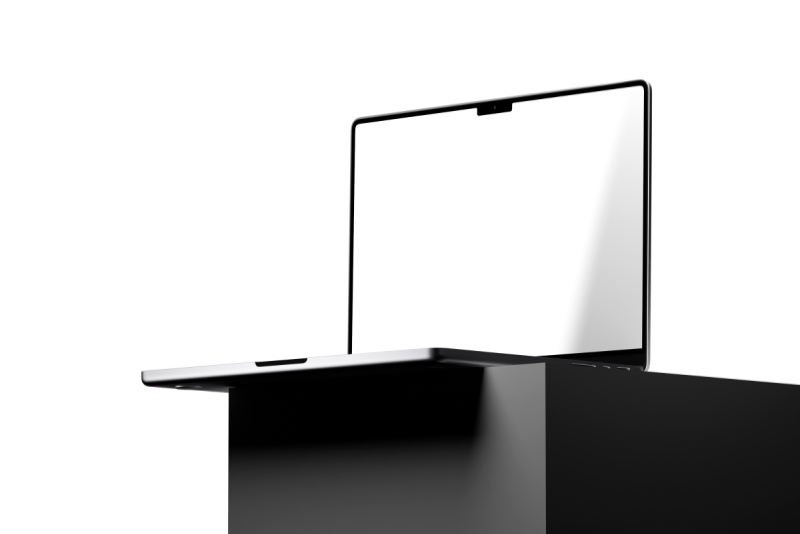
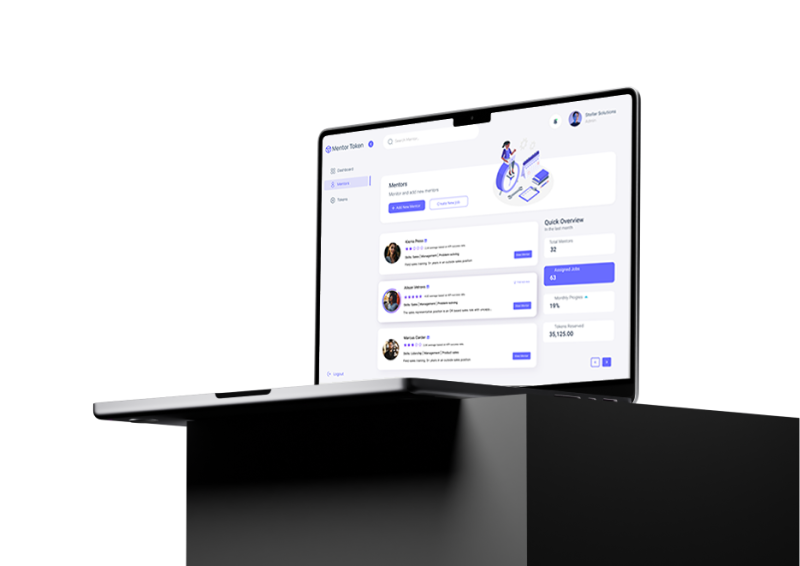
added login

Changed region(s): [[0.0938, 0.1498, 1.0, 1.0], [0.5938, 0.2397, 0.6875, 0.3596]]

diff --git a/src/App.jsx b/src/App.jsx
@@ -1,17 +1,20 @@
 import { About, Contact, Home } from "./pages";
-import { Navbar, Footer } from "./components";
+import { Landing } from "./components";
+import { Auth_layout, Login } from "./auth";
+
 import { Routes, Route } from "react-router-dom";
 
 function App() {
   return (
     <>
-      <Navbar />
       <Routes>
-        <Route path="/" element={<Home />} />
-        <Route path="/about" element={<About />} />
-        <Route path="/contact" element={<Contact />} />
+        <Route element={<Landing />}>
+          <Route path="/" element={<Home />} />
+          <Route path="/about" element={<About />} />
+          <Route path="/contact" element={<Contact />} />
+        </Route>
+        <Route path="/login" element={<Auth_layout />} />
       </Routes>
-      <Footer />
     </>
   );
 }

diff --git a/src/components/navbar/navbar.module.css b/src/components/navbar/navbar.module.css
@@ -60,23 +60,9 @@
   border-radius: var(--b-radius-btn);
 }
 
-.navbar_nav [datatype="modifier"] {
-  background-color: var(--clr);
-}
-
-.navbar_nav li:hover {
-  background-color: var(--clr-purple-hover-400);
-  color: var(--clr-light);
-  transition: var(--transition--200);
-}
-
-.navbar_nav li:hover a {
-  color: var(--clr-light);
-}
-
 /* UTILITY */
 .menu_open {
-  height: 18vh;
+  height: 18.2vh;
   transition: var(--transition--200);
 }
 
@@ -84,13 +70,12 @@
   display: none;
 }
 
-.text_purple {
-  color: var(--clr-purple-primary-400);
-}
-
 .active {
-  border-bottom: var(--border-b);
+  color: var(--clr-purple-primary-400);
   transition: var(--transition--200);
+}
+.red {
+  background-color: red;
 }
 
 /* MEDIA */

diff --git a/src/auth/auth_layout/Auth_layout.module.css b/src/auth/auth_layout/Auth_layout.module.css
@@ -1,0 +1,36 @@
+.layout {
+  display: grid;
+  grid-template-columns: 40% 1fr;
+}
+
+.auth {
+  position: relative;
+  height: 100vh;
+  background-image: url("../../../public/auth_background.png");
+}
+
+.auth::before {
+  content: "";
+  position: absolute;
+  top: 0;
+  left: 0;
+  width: 100%;
+  height: 100%;
+  background-color: var(--clr-purple-primary-400);
+  opacity: 0.8;
+  z-index: 2;
+  pointer-events: none;
+}
+
+.auth h1 {
+  font-size: 60px;
+  position: relative; /* Ensure p is positioned relative to .auth */
+  color: #fff;
+  z-index: 3; /* Ensure the text is above the overlay */
+}
+
+.login {
+  display: flex;
+  justify-content: center;
+  padding-inline: 4rem;
+}

diff --git a/src/auth/login/Login.jsx b/src/auth/login/Login.jsx
@@ -1,0 +1,23 @@
+import styles from "./login.module.css";
+
+const Login = () => {
+  return (
+    <div className={styles.login}>
+      <img src="../../../public/Vector.png" alt="" />
+      <h2>Log in to mentor token</h2>
+      <p>Enter your email and pass to login.</p>
+      <div className={styles.form}>
+        <label htmlFor="email">Email</label>
+        <input type="email" name="email" id="email" />
+        <input type="password" name="password" />
+        <input type="submit" value="Log in" />
+      </div>
+      <div>
+        <p>
+          Don’t have account? <a href="#">Register.</a>
+        </p>
+      </div>
+    </div>
+  );
+};
+export default Login;

diff --git a/src/pages/home/main/section1/section1.module.css b/src/pages/home/main/section1/section1.module.css
@@ -28,7 +28,7 @@
   padding-top: 25px;
 }
 .section1 p {
-  font-size: 15px;
+  font-size: 14.5px;
   padding-block: 20px;
 }
 
@@ -64,6 +64,13 @@ a[data-type="gap"] {
   flex-wrap: wrap;
 }
 
+@media (width < 390px) {
+  .btn_align {
+    flex-direction: column;
+    align-items: start;
+  }
+}
+
 @media (width >= 768px) {
   .section1 h1 {
     font-size: 32px;
@@ -92,12 +99,12 @@ a[data-type="gap"] {
   .section1 p {
     font-size: 20px;
     padding-bottom: 70px;
-    width: 50%;
+    width: 60%;
   }
 
   .section1 h1 {
     font-size: 45px;
     padding-top: 60px;
-    width: 50%;
+    width: 60%;
   }
 }

diff --git a/src/auth/login/login.module.css b/src/auth/login/login.module.css
@@ -1,0 +1,25 @@
+.login {
+  display: inline-flex;
+  justify-content: center;
+  align-content: center;
+  flex-direction: column;
+  text-align: center;
+  gap: 2rem;
+}
+
+.login img {
+  max-width: 1.3rem;
+}
+
+.login input {
+  display: inline-block;
+  /* width: 50%; */
+}
+
+.form {
+  display: flex;
+  flex-direction: column;
+  justify-content: center;
+  gap: 1rem;
+  width: 32rem;
+}

diff --git a/src/components/navbar/Navbar.jsx b/src/components/navbar/Navbar.jsx
@@ -35,9 +35,7 @@ const Navbar = () => {
           <NavLink
             to="/"
             className={({ isActive }) => {
-              return isActive
-                ? `${styles.active} ${styles.text_purple}`
-                : `${styles.text_purple}`;
+              return isActive ? `${styles.active}` : ``;
             }}
           >
             Home

diff --git a/src/auth/auth_layout/Auth_layout.jsx b/src/auth/auth_layout/Auth_layout.jsx
@@ -1,0 +1,14 @@
+import Login from "../login/Login";
+import styles from "./Auth_layout.module.css";
+
+const Auth_layout = () => {
+  return (
+    <div className={styles.layout}>
+      <div className={styles.auth}>
+        <h1>Grow your startup!</h1>
+      </div>
+      <Login className={styles.login} />
+    </div>
+  );
+};
+export default Auth_layout;

diff --git a/src/components/landing/Landing.jsx b/src/components/landing/Landing.jsx
@@ -1,0 +1,13 @@
+import { Navbar, Footer } from "../../components";
+import { Outlet } from "react-router-dom";
+
+const Landing = ({ children }) => {
+  return (
+    <div>
+      <Navbar />
+      {children || <Outlet />}
+      <Footer />
+    </div>
+  );
+};
+export default Landing;

diff --git a/src/pages/index.js b/src/pages/index.js
@@ -1,5 +1,7 @@
+import Landing from "../components/landing/Landing";
 import About from "./about/About";
 import Contact from "./contact/Contact";
 import Home from "./home/Home";
+Landing;
 
-export { About, Contact, Home };
+export { About, Contact, Home, Landing };

diff --git a/src/components/index.js b/src/components/index.js
@@ -1,4 +1,5 @@
 import Navbar from "./navbar/Navbar";
 import Footer from "./footer/Footer";
+import Landing from "./landing/Landing";
 
-export { Navbar, Footer };
+export { Navbar, Footer, Landing };

diff --git a/src/pages/about/team/team.module.css b/src/pages/about/team/team.module.css
@@ -4,8 +4,6 @@
   justify-content: center;
   align-items: center;
   gap: 1rem;
-  width: var(--width-900);
-  margin-inline: auto;
   text-align: center;
 }
 
